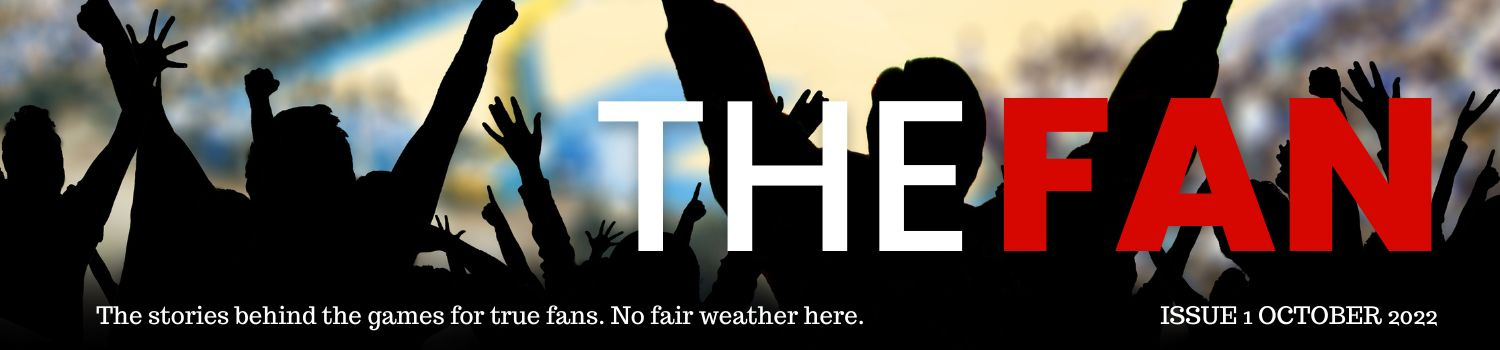
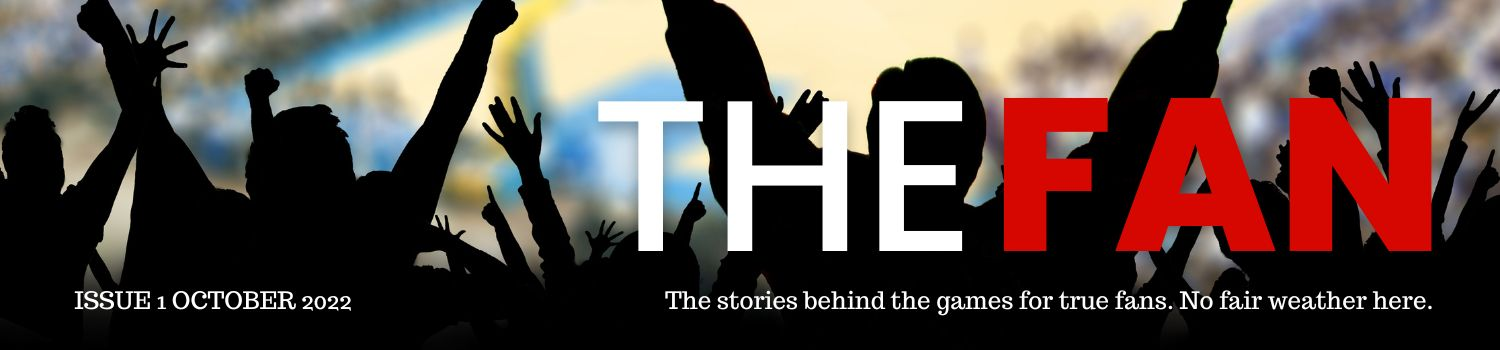
adds news div, new mast

Changed region(s): [[0.0307, 0.8286, 0.9813, 0.9429]]

diff --git a/midterm/index.html b/midterm/index.html
@@ -7,10 +7,13 @@
     <body>
 
       <div id="content">
+      <div id="news">
 
       <img id="mast" src="images/fan.jpg" alt"The Fan masthead">
 
       <h1>Megan Rapinoe's pose doesn't tell the whole story</h1>
+
+
 
       <div id="byline">By JENNY VRENTAS | Sports Illustrated</div>
 
@@ -95,7 +98,9 @@
 </ul>
 </p>
 
-</div>
+
+</div><!--ends news-->
+</div><!--ends content-->
 
     </body>
 </html>

diff --git a/midterm/stylesheet.css b/midterm/stylesheet.css
@@ -25,11 +25,13 @@ p {
 ul{
   font-family: Helvetica, Arial, sans-serif;
   font-size: 12px;
+  display:inline-block;
 }
 
 li{
   font-family: Helvetica, Arial, sans-serif;
   font-size: 12px;
+  text-align: center;
 }
 
 blockquote {
@@ -70,4 +72,8 @@ font-style: italic;
 
 #mast {
   max-width: 100%;
+}
+#news{
+  text-align:center;
+  max-width: 900px;
 }
